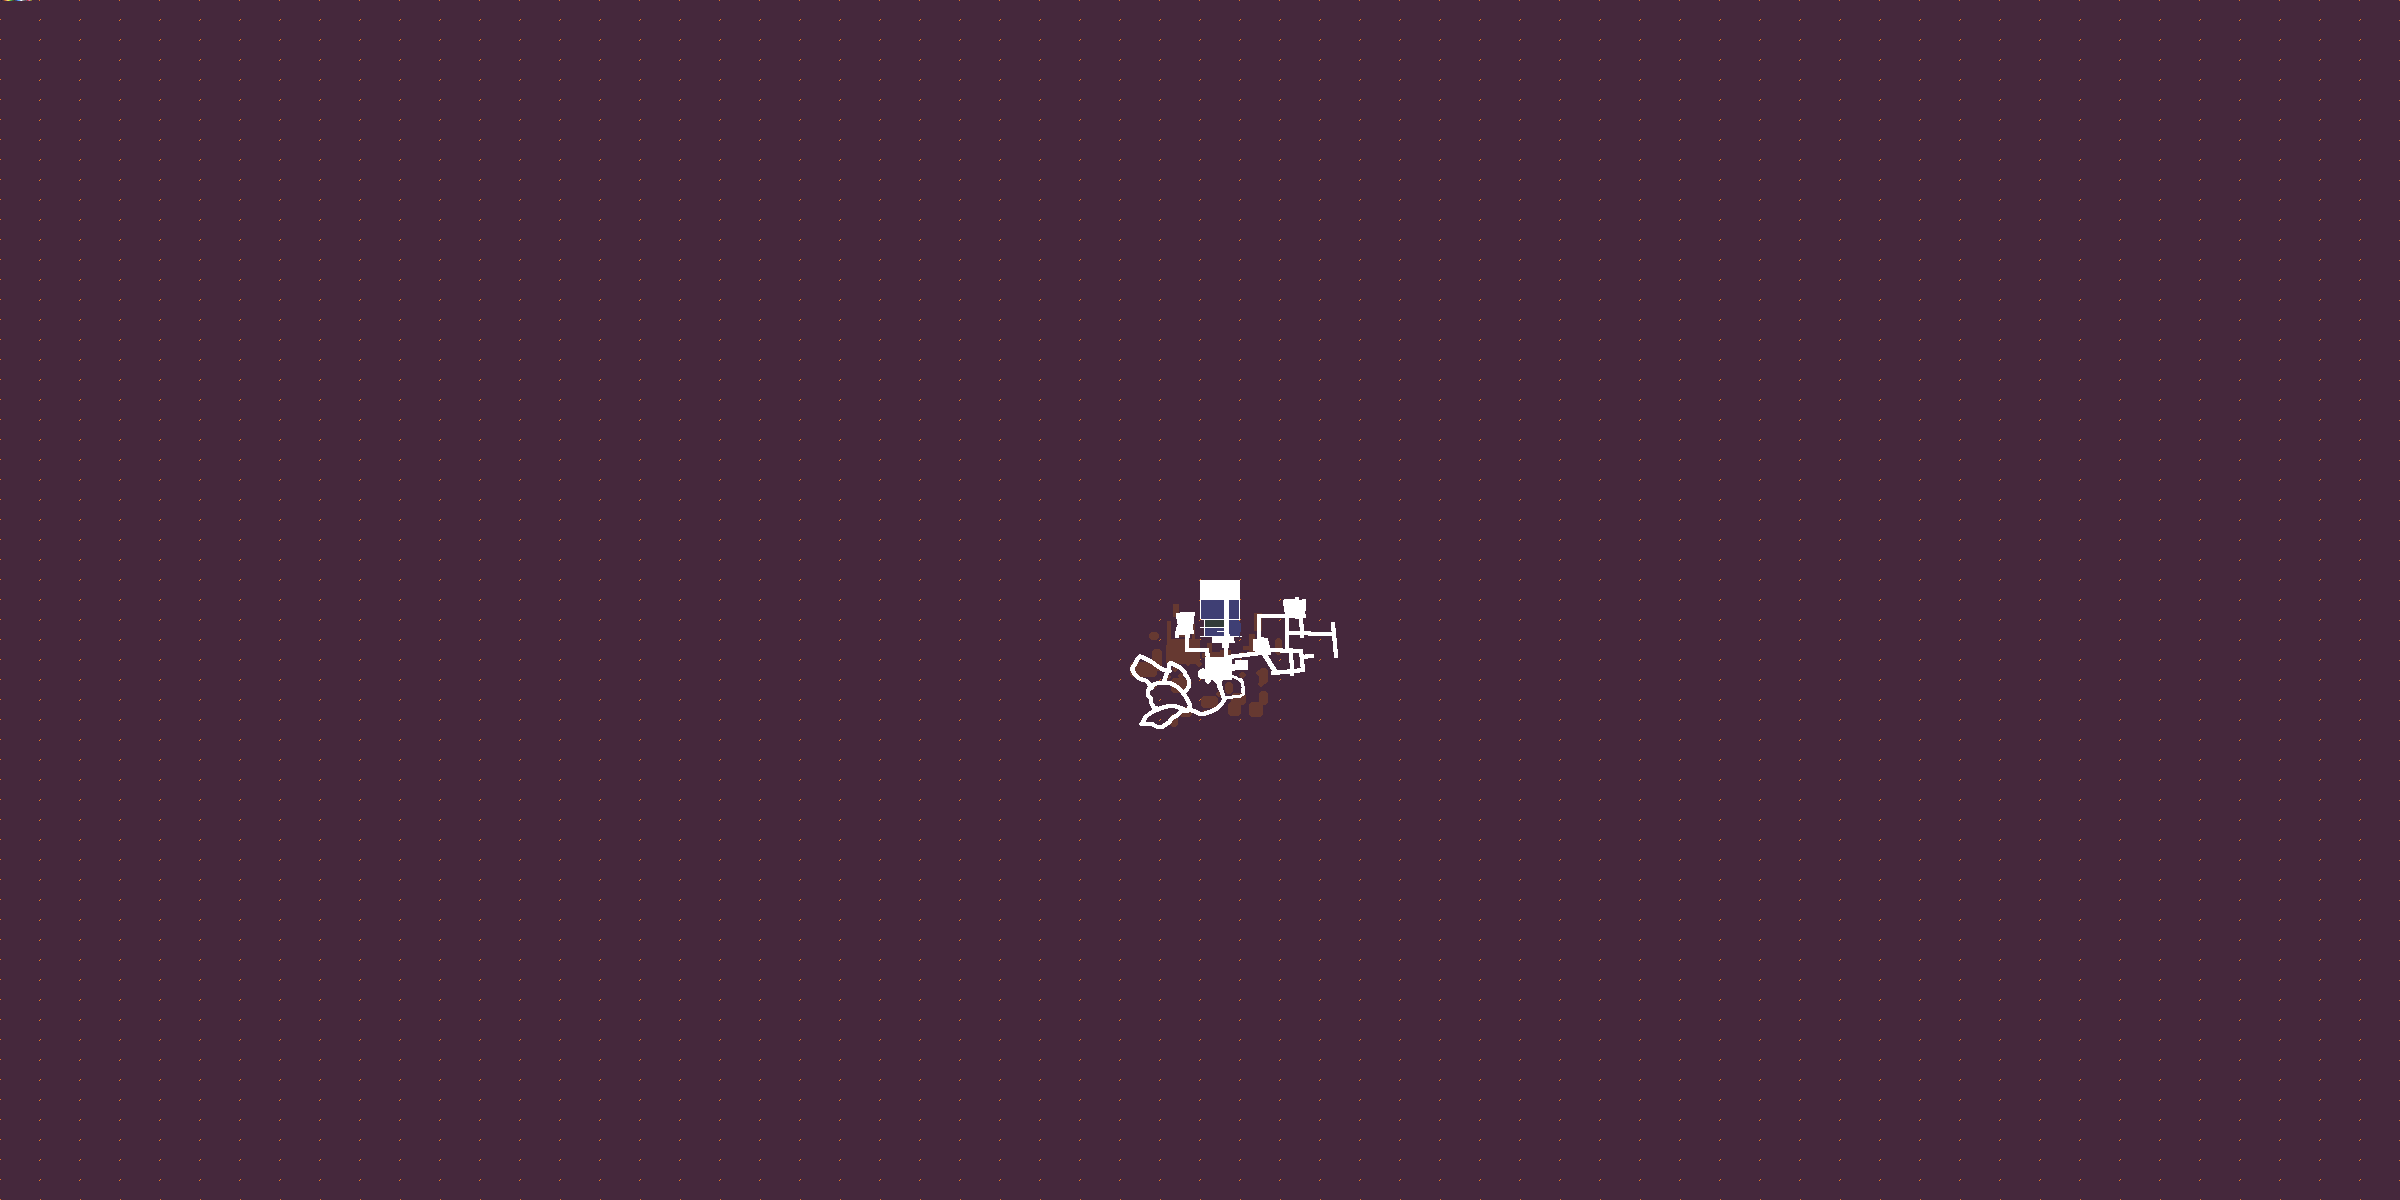
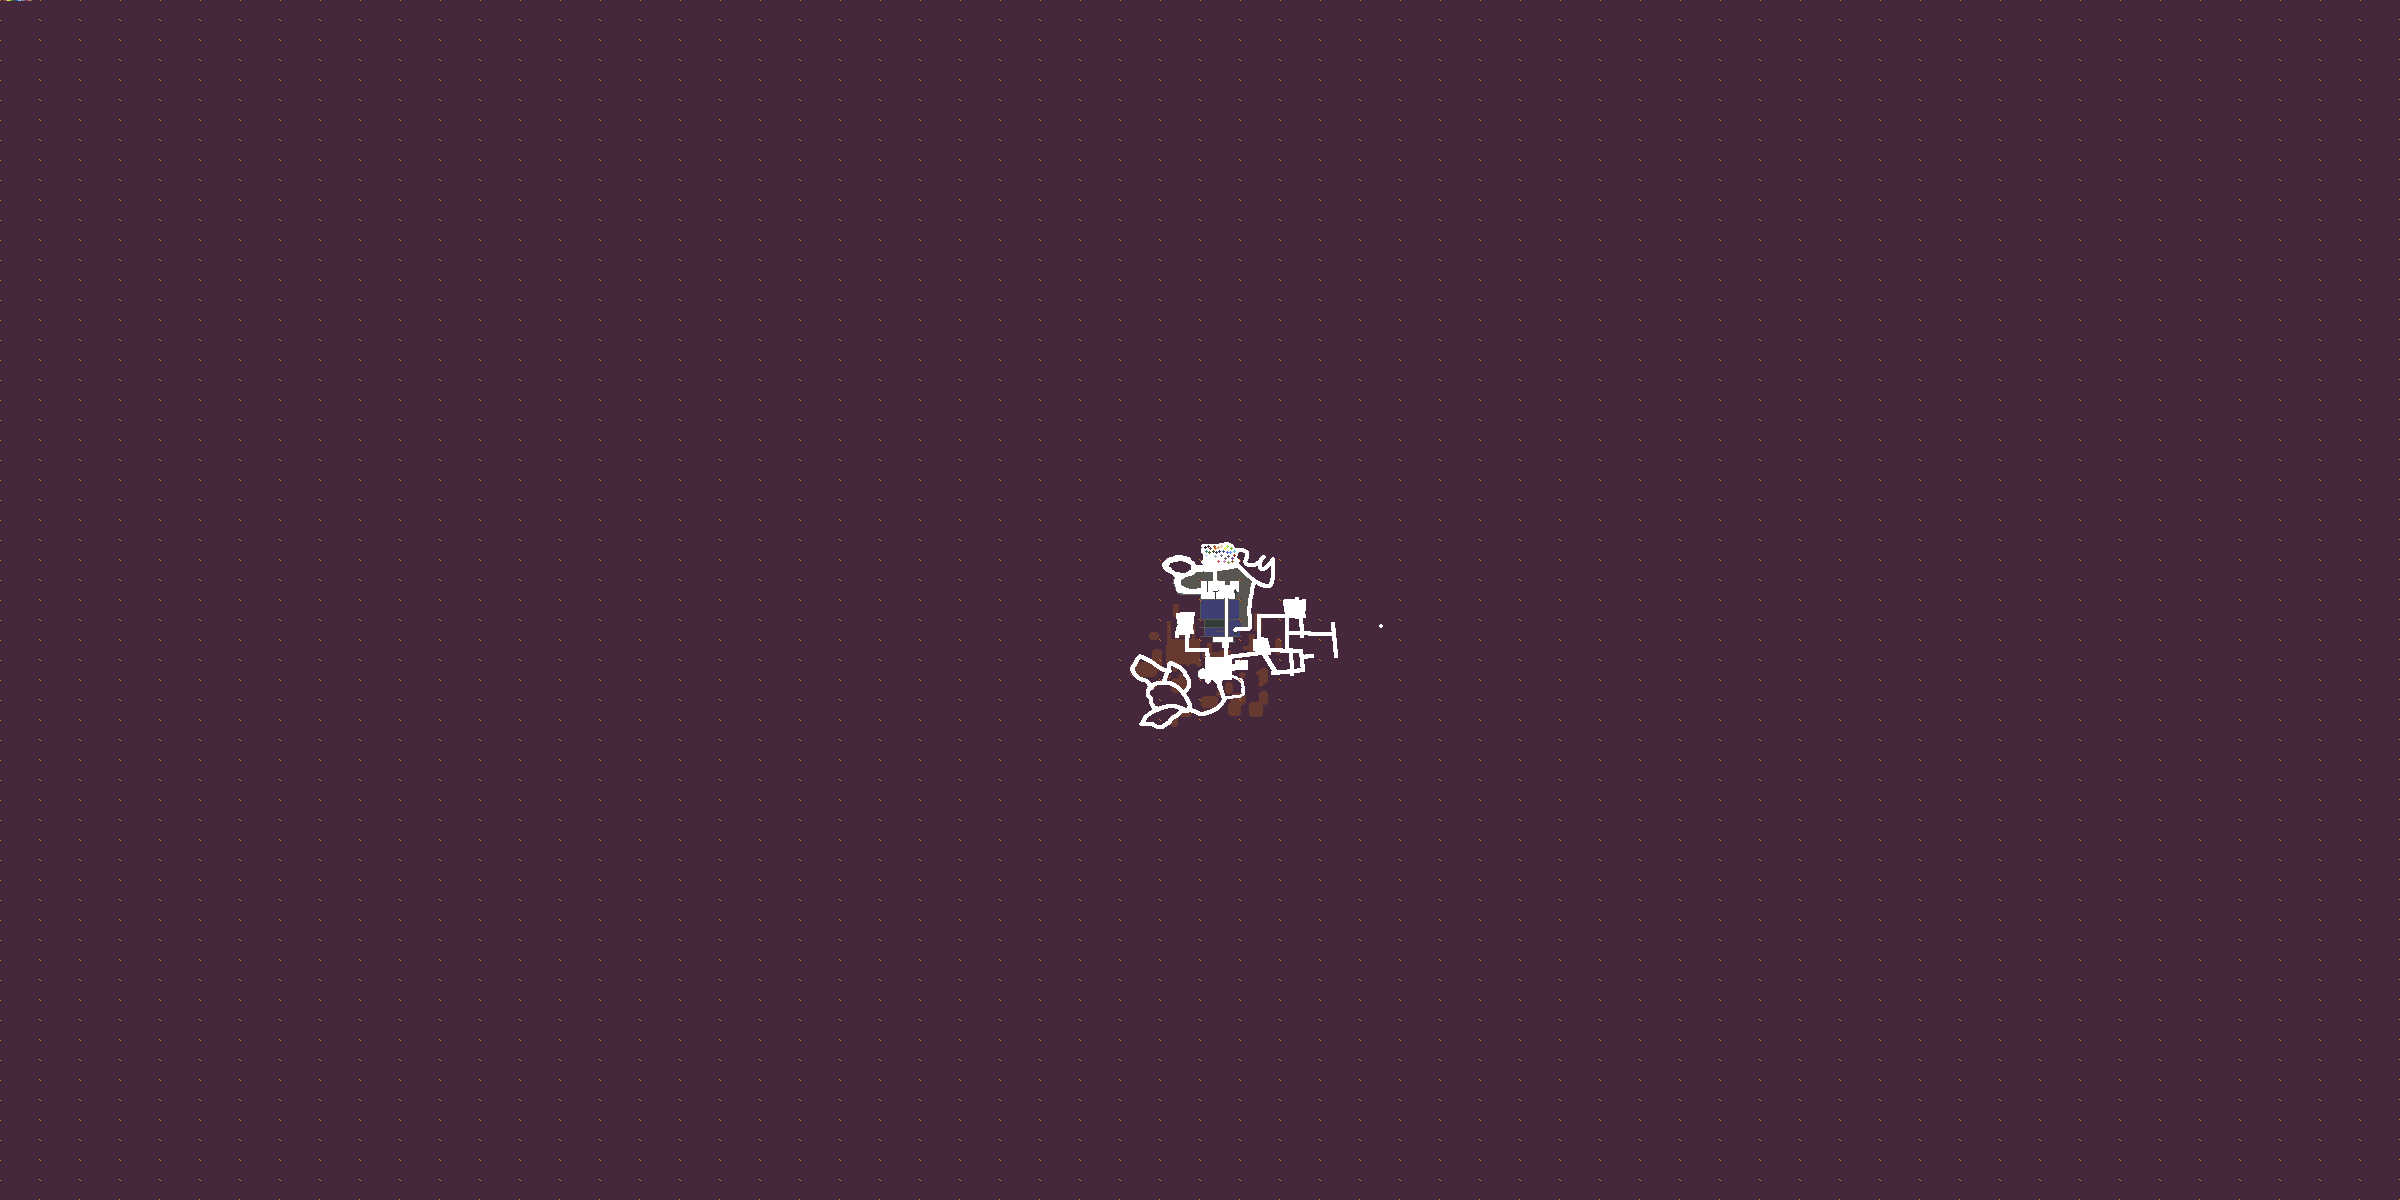
map collision in,  lerped transitions between screens when traversing

Changed region(s): [[0.4688, 0.4317, 0.5312, 0.5242]]

diff --git a/js/entities/player.js b/js/entities/player.js
@@ -1,0 +1,155 @@
+var player = {
+    x: 1220*8,
+    y: 500*8,
+    previousX: 0,
+    previousY: 0,
+    width: 9,
+    height: 18,
+    speed: 0,
+    xVelocity: 0,
+    yVelocity: 0,
+    xAcceleration: 0,
+    yAcceleration: 0,
+    maxSpeed: 20,
+    maxAcceleration: 70,
+    friction: 0.7,
+
+    collider: {
+        left: 0,
+        right: 0,
+        top: 0,
+        bottom: 0,
+        leftFeeler: { x: 0, y: 0 },
+        rightFeeler: { x: 0, y: 0 },
+        topFeeler: { x: 0, y: 0 },
+        bottomFeeler: { x: 0, y: 0 }
+    },
+
+    draw: function () {
+        fillRect(Math.round(this.x-view.x-this.width/2), Math.round(this.y-view.y-this.height/2), this.width, this.height);
+        pset(Math.round(this.x-view.x), Math.round(this.y-view.y), 'magenta');
+        pset(Math.round(this.collider.leftFeeler.x-view.x), Math.round(this.collider.leftFeeler.y-view.y), "red");
+        pset(Math.round(this.collider.rightFeeler.x-view.x), Math.round(this.collider.rightFeeler.y-view.y), "yellow");
+        pset(Math.round(this.collider.topFeeler.x-view.x), Math.round(this.collider.topFeeler.y-view.y),    "green");
+        pset(Math.round(this.collider.bottomFeeler.x-view.x), Math.round(this.collider.bottomFeeler.y-view.y), "blue");
+
+    },
+
+    update: function () {
+        this.updateCollider(this.x, this.y);
+        //apply x movement
+        this.x += this.xVelocity * 1/FRAMES_PER_SECOND;
+        this.xVelocity *= this.friction;
+        //apply y movement
+        this.y += this.yVelocity * 1/FRAMES_PER_SECOND;
+        this.yVelocity *= this.friction;
+
+        //update rect:
+        this.updateCollider(this.x, this.y);
+        
+        if (Key.isDown(Key.LEFT)) {
+            this.xVelocity -= this.maxAcceleration;
+        }
+        if (Key.isDown(Key.RIGHT)) {
+            this.xVelocity += this.maxAcceleration;
+        }
+        if (Key.isDown(Key.UP)) {
+            this.yVelocity -= this.maxAcceleration;
+        }
+        if (Key.isDown(Key.DOWN)) {
+            this.yVelocity += this.maxAcceleration;
+        }
+
+        if(this.collider.right - view.x < 0) {
+            view.targetX -= canvas.width;
+        }
+        if(this.collider.left - view.x > canvas.width - this.width) {
+            view.targetX += canvas.width;
+        }
+        if(this.collider.bottom - view.y < 0) {
+            view.targetY -= canvas.height;
+        }
+        if(this.collider.top - view.y > canvas.height - this.height) {
+            view.targetY += canvas.height;
+            //this.y += 2;
+        }
+
+        //check for x collisions
+        if(this.tileCollisionCheck(world, 0)){
+            this.x = this.previousX;
+            this.xVelocity = 0;
+            this.updateCollider(this.x, this.y);
+        }
+
+        //check for y collisions
+        if(this.tileCollisionCheck(world, 0)){
+            this.y = this.previousY;
+            this.yVelocity = 0;
+            this.updateCollider(this.x, this.y);
+        }
+
+        this.previousX = this.x;
+        this.previousY = this.y;
+    },
+
+    placeAtTile: function (x, y) {
+        this.x = x * world.tileSize;
+        this.y = y * world.tileSize;
+        this.previousX = this.x;
+        this.previousY = this.y;
+        return 
+    },
+
+    updateCollider(x, y) {
+        this.collider.top = this.y - this.height / 2;
+        this.collider.bottom = this.y + this.height / 2;
+        this.collider.left = this.x - this.width / 2;
+        this.collider.right = this.x + this.width / 2;
+
+        this.collider.leftFeeler.x = this.collider.left;
+        this.collider.leftFeeler.y = this.y;
+        this.collider.rightFeeler.x = this.collider.right;
+        this.collider.rightFeeler.y = this.y;
+        this.collider.topFeeler.x = this.x;
+        this.collider.topFeeler.y = this.collider.top;
+        this.collider.bottomFeeler.x = this.x;
+        this.collider.bottomFeeler.y = this.collider.bottom;
+        
+    },
+
+    tileCollisionCheck: function(world, tileCheck){
+        
+        // //update body edges
+        // this.rect.top = this.pos.y - this.height/2 + EXTRA_HEADROOM;
+        // this.rect.bottom = this.pos.y + this.height/2;
+        // this.rect.left = this.pos.x - this.width/2;
+        // this.rect.right = this.pos.x + this.width/2;
+
+        let leftTile =      Math.floor(this.collider.left / world.tileSize),
+            rightTile =     Math.floor(this.collider.right / world.tileSize),
+            topTile =       Math.floor(this.collider.top / world.tileSize),
+            bottomTile =    Math.floor(this.collider.bottom / world.tileSize)
+            //collision = false;
+
+        for(let i = leftTile; i <=rightTile; i++){
+            for(let j = topTile; j<= bottomTile; j++){
+                let tile = world.getTileAtPosition(i, j)
+
+                if(typeof tileCheck === "function"){
+                   return tileCheck(tile);
+                }
+                else if(tile > tileCheck){
+                    console.log(tile);
+                    return true;
+                }
+            }
+        }
+    },
+
+    tilesThatCollide: function(tile){
+        return tile >= 0;
+    }
+
+    
+
+}

diff --git a/js/main.js b/js/main.js
@@ -24,7 +24,9 @@ var audio = new AudioGlobal();
 var img, gameFont, tinyFont;
 var view = {
     x: 0,
-    y: 0
+    y: 0,
+    targetX: 0,
+    targetY: 0,
 }
 
 const imageList = [
@@ -50,6 +52,8 @@ function loadImages(){
 }
 
 function initAudio(){
+    world = new World(img['map'].width, img['map'].height, 8);
+    world.populateWithImage(img['map']);
     audio.init(loadSounds);
 }
 
@@ -62,10 +66,8 @@ function loadSounds(){
 
 function loadingComplete(){
     console.log('loading complete, initializing game');
-    world = new World(img['map'].width, img['map'].height, 8);
-    world.populateWithImage(img['map']);
-    player.placeAtTile(1220, 589 )
-    console.log('loading complete, starting game')
+
+   
 
      //create spriteFont
      gameFont = new spriteFont({
@@ -86,6 +88,7 @@ function loadingComplete(){
         //remaining options are in spriteFont defaults
     })
 
+    signal.dispatch('startGame');
 
     setInterval(gameLoop, 1000/FRAMES_PER_SECOND);
 }

diff --git a/index.html b/index.html
@@ -1,7 +1,7 @@
 <!DOCTYPE html>
 <html lang="en">
     <header>
-        <title>MVG</title>
+        <title>PewPewQuest</title>
         <link rel="stylesheet" type="text/css" href="style.css">
     </header>
     <body>
@@ -27,7 +27,7 @@
         <script src="js/screens/gameOverScreen.js"></script>
         <script src="js/screens/creditsScreen.js"></script>
 
-        <script src="js/player.js"></script>
+        <script src="js/entities/player.js"></script>
 
         <!-- and finally our main entry point -->
         <script src = "js/main.js"></script>

diff --git a/js/screens/gameScreen.js b/js/screens/gameScreen.js
@@ -11,10 +11,7 @@ var gameScreen = {
     },
     hitCounter: 0,
     reset: function () {
-        this.box.x = 0;
-        this.box.y = 0;
-        this.timerbox.width = 320;
-        this.hitCounter = 0;
+        player.placeAtTile(1220, 589 )
     },
     draw: function () {
         clearScreen('black');
@@ -22,6 +19,8 @@ var gameScreen = {
         player.draw();
        },
     update: function () {
+        view.x = intLerp(view.x, view.targetX, 0.3);
+        view.y = intLerp(view.y, view.targetY, 0.3);
         player.update();
     }
 }

diff --git a/js/core/util.js b/js/core/util.js
@@ -69,6 +69,9 @@ function calculateMousePos(evt) {
 function lerp(v0, v1, t) {
     return v0*(1-t)+v1*t
 }
+function intLerp(v0, v1, t) {
+    return Math.round(v0*(1-t)+v1*t);
+}
 
 function inView(x,y){
     let screenX = x - view.x,
